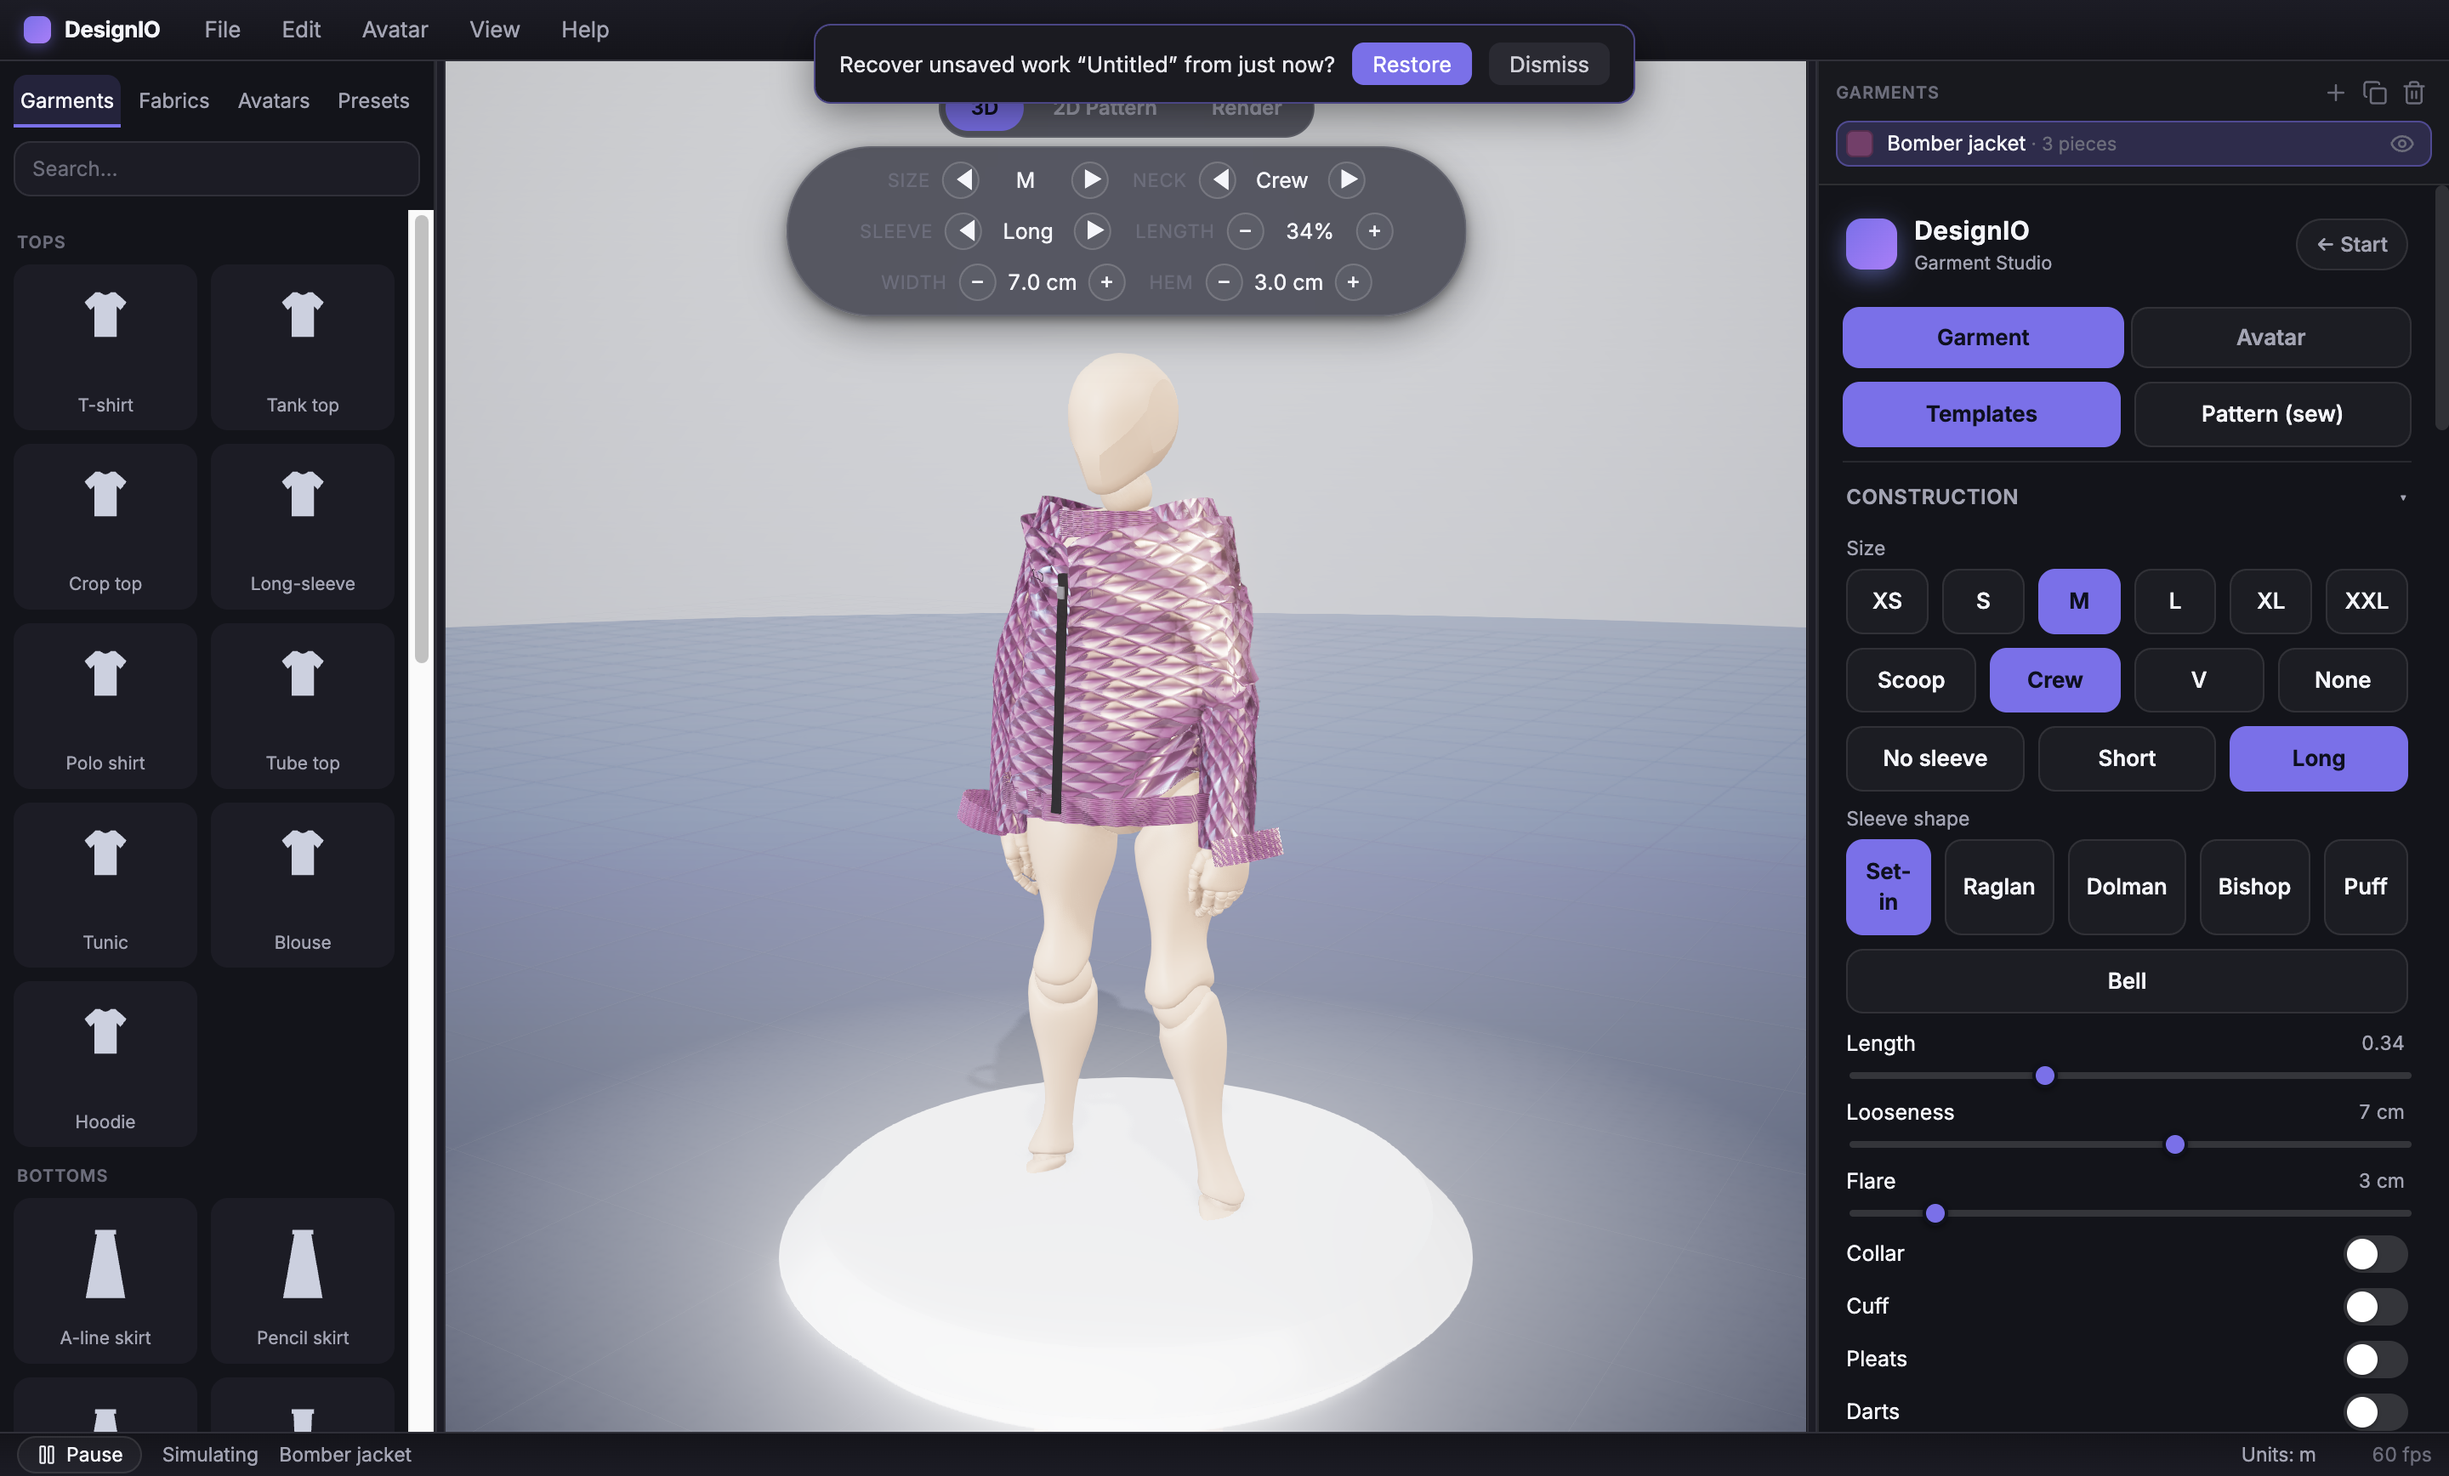
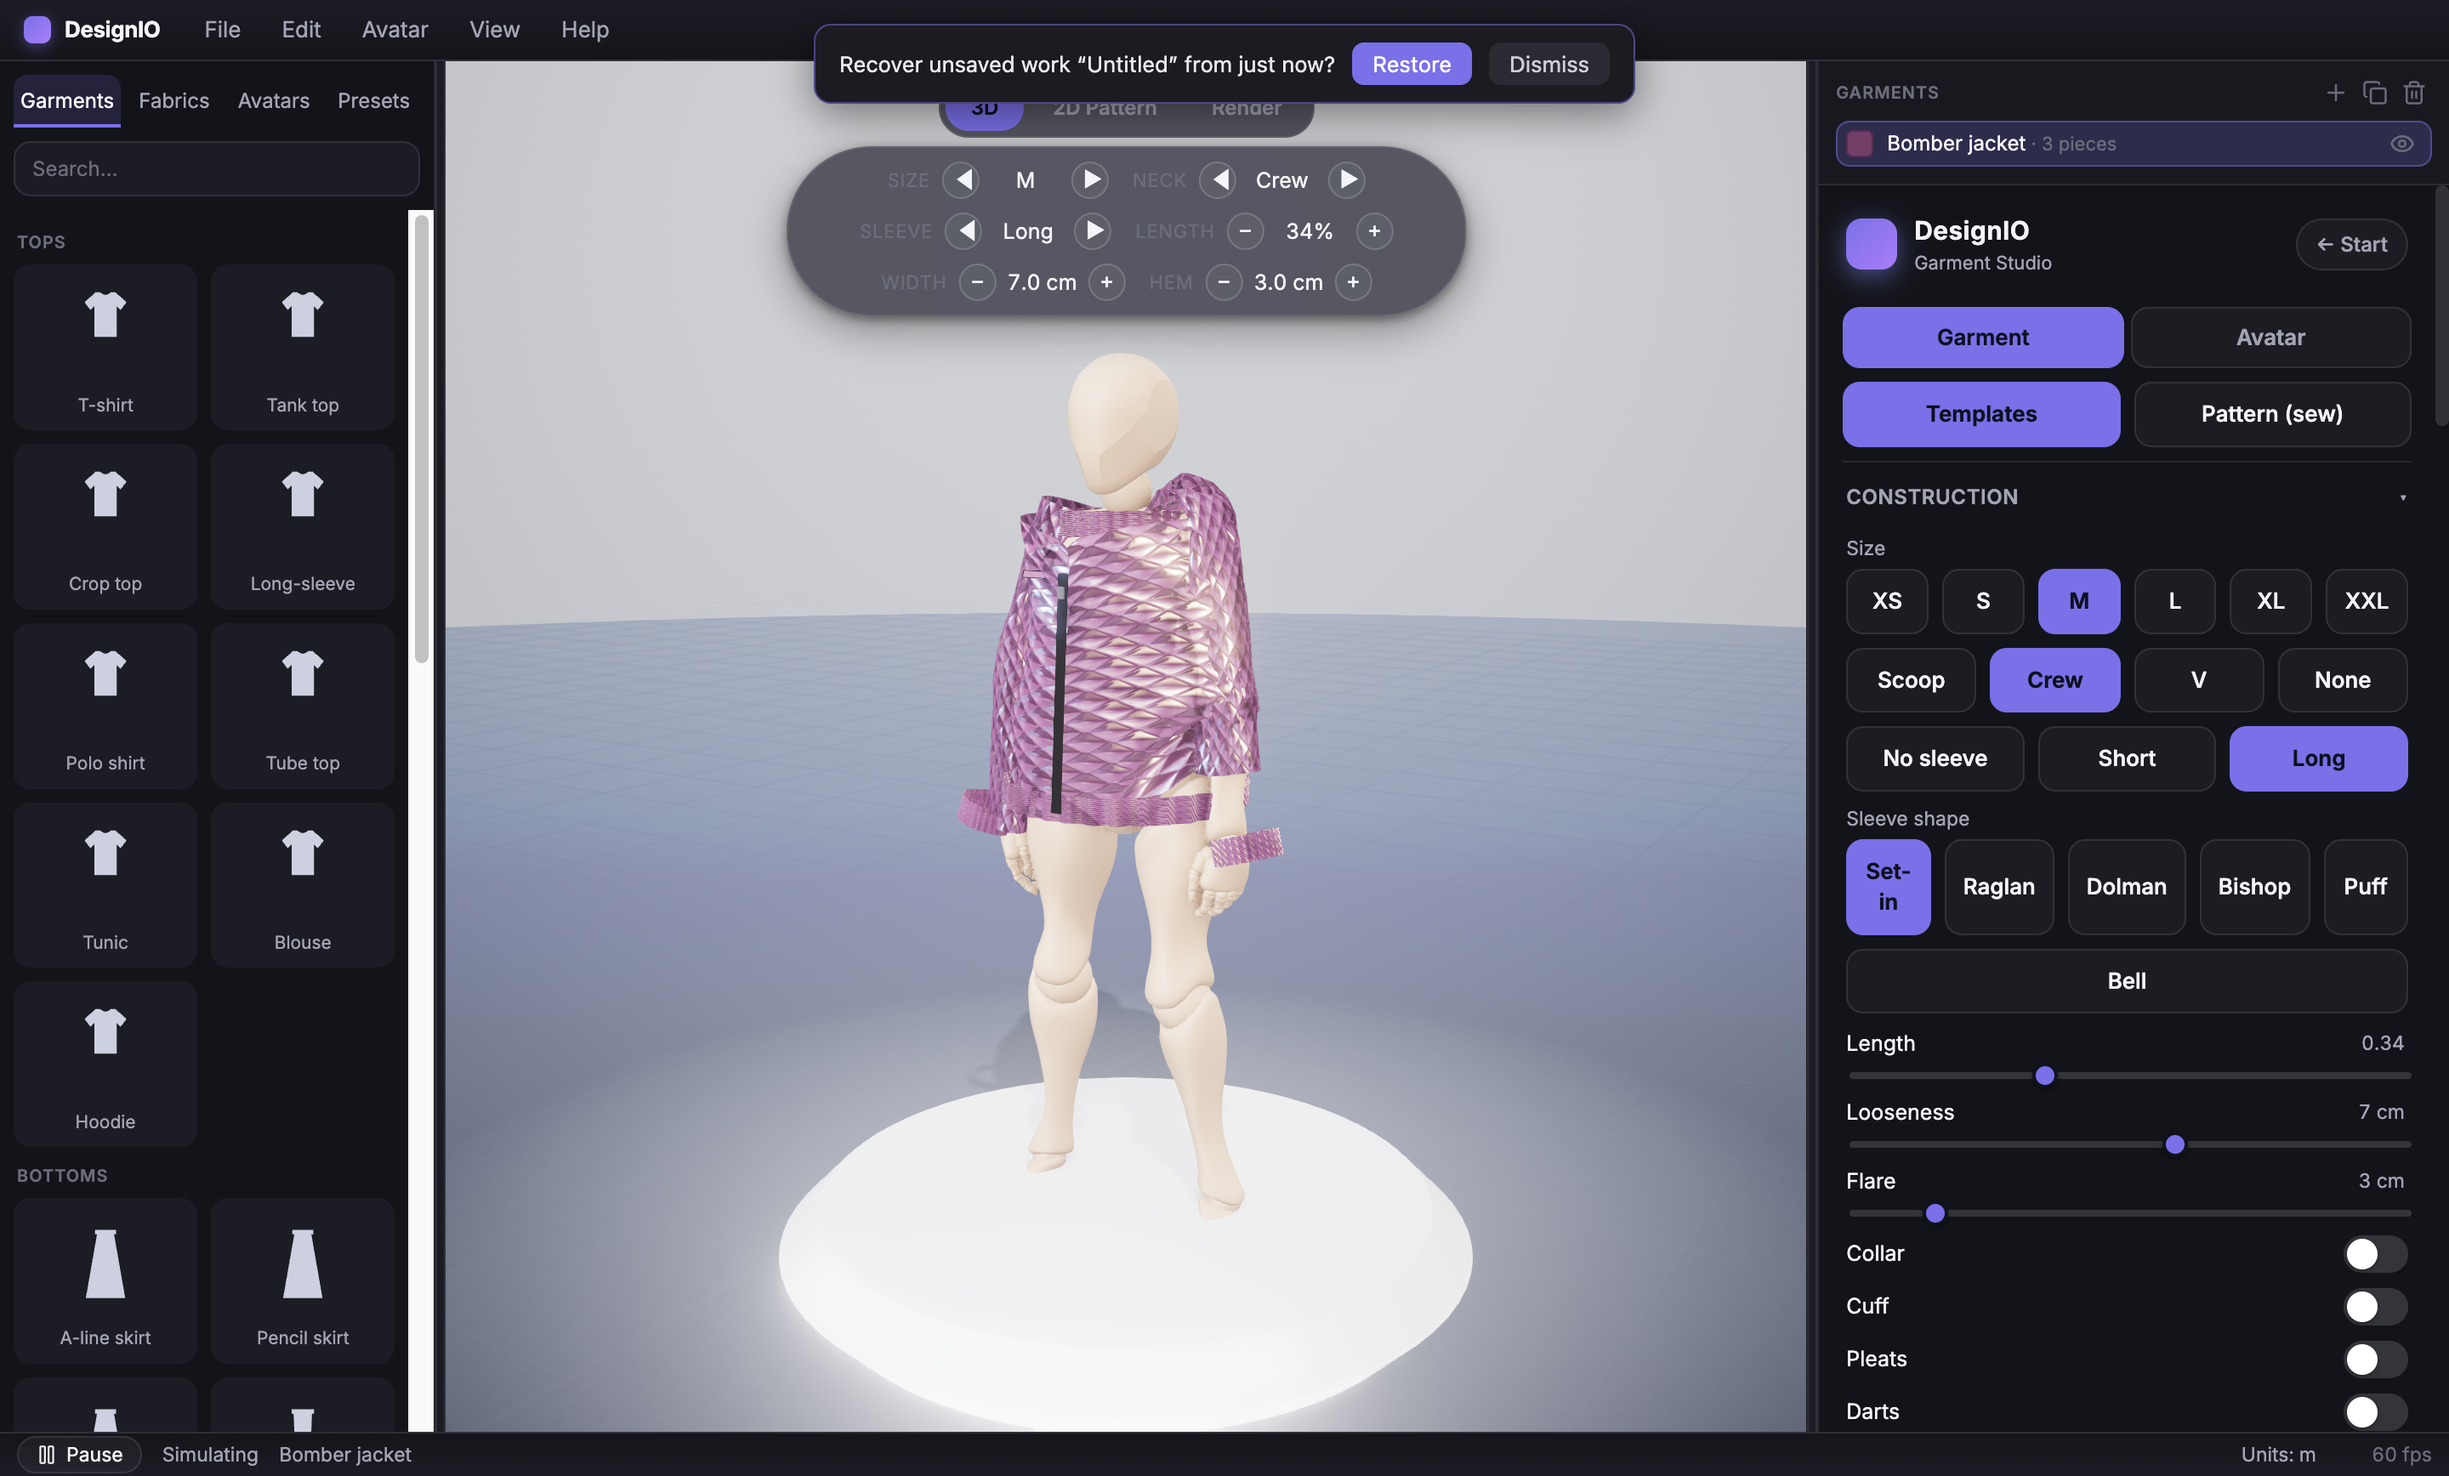
README: document the new features (puffer loft · wet look · tone-map · surface realism)
Screenshot pass confirmed the new panel controls render correctly (Wet look + Puffer
loft toggles in Appearance; the ACES/AgX/Neutral/Filmic/Reinhard Tone-map picker in
the Environment section). Now reflect this session's features in the README.

- At a glance: add trapped-air puffer loft (Simulation) + wet look (Surface).
- Surface finishes: a Wet-look column (+ docs/wet.png), the iridescent oil-slick swirl,
  and a note on the PBR surface realism (weave roughness + sheen + anisotropy).
- Real 3D cloth simulation: trapped-air puffer loft (+ docs/puffer.png) + inelastic
  contact settle.
- Studio lighting & backdrops: selectable tone-mapping + dithered backdrop gradient.
- Roadmap "Shipped": puffer loft · wet-look · PBR surface realism · tone-mapping.

New/updated doc shots: docs/puffer.png (lofted quilted coat), docs/wet.png (wet
dress), docs/quilt.png regenerated (the quilted bomber now lofts). Added puffer + wet
to scripts/capture-readme.cjs so future regens include them.

Docs-only — no source changes.

Changed region(s): [[0.4062, 0.3111, 0.5312, 0.591]]

diff --git a/README.md b/README.md
@@ -76,8 +76,8 @@ If you are unsure whether something is allowed, **ask first.**
 | **Garments** | 31 data-driven garments across tops · bottoms · dresses · one-pieces · outerwear · headwear |
 | **Fabrics** | 24 real fabrics with physical **and** visual properties that drive both drape and look |
 | **Body** | imported photoreal GLB avatar (default) or a sculpted metaball body — female/male, fully shapeable |
-| **Simulation** | XPBD cloth · mesh-accurate BVH body collision · cloth self/inter-collision · 4D per-fabric motion |
-| **Surface** | textiles · ombré · distressing · sequins · iridescence · quilting · lace · faux-fur · photo→PBR swatch |
+| **Simulation** | XPBD cloth · mesh-accurate BVH body collision · cloth self/inter-collision · 4D motion · trapped-air puffer loft |
+| **Surface** | textiles · ombré · distressing · sequins · iridescence · quilting · lace · faux-fur · wet look · photo→PBR swatch |
 | **Customize** | skin tones · hair · face · body presets · lookbook poses · accessories · headwear & neckwear |
 | **Studio** | dockable CAD shell · 3D + 2D pattern + Render tabs · lighting & backdrop presets · fit heatmaps |
 | **Output** | glTF · OBJ · USDZ (AR) · SVG/DXF pattern · tech-pack · manufacturing pack · PNG stills · WebM clips |
@@ -238,13 +238,20 @@ they simulate and export with it:
 | ![A sequined eveningwear gown](docs/sequins.png) | ![An oil-slick iridescent dress](docs/iridescent.png) | ![A see-through chantilly lace dress](docs/lace.png) |
 | glittering eveningwear finishes | colour-shifting thin-film | chantilly · geometric · fishnet (real see-through cutout) |
 
-| Quilting | Faux-fur / shearling / fleece |
-| --- | --- |
-| ![A diamond-quilted bomber](docs/quilt.png) | ![A shearling fur coat with a fuzzy pile](docs/fur.png) |
-| channel · diamond · box pillow-loft | directional fuzzy pile, no extra geometry |
+| Quilting | Faux-fur / shearling / fleece | Wet look |
+| --- | --- | --- |
+| ![A diamond-quilted bomber](docs/quilt.png) | ![A shearling fur coat with a fuzzy pile](docs/fur.png) | ![A waterlogged wet-look dress](docs/wet.png) |
+| channel · diamond · box pillow-loft | directional fuzzy pile, no extra geometry | waterlogged: darker + glossy, clings limp |
+
+The **iridescent** finish flows a real oil-on-water swirl across the surface (a procedural thin-film
+thickness map), not a flat colour shift. The **Wet look** toggle (in the Appearance panel) makes the fabric
+heavier + limp + clinging *and* darker + glossy — a rain / swim / beach preview.
 
 You can also **import a fabric photo** and DesignIO bakes it into a **seamless tiling PBR material** (albedo
-+ derived normal + roughness) that clothes the whole garment.
++ derived normal + roughness) that clothes the whole garment. Every fabric renders with a **procedural
+weave** (a paired normal **and** roughness map so yarn crowns catch the light and valleys stay matte),
+per-family **cloth sheen**, and a warp-aligned **anisotropic** highlight — so satins streak and wovens read
+matte, not plastic.
 
 ---
 
@@ -335,8 +342,15 @@ than interpenetrating.
 
 Under the hood: **adaptive remeshing** packs solver rings where the silhouette bends (waist cinch, flare
 onset, puff-sleeve bell) at no extra particle cost; per-fabric **aerodynamic drag** gives real secondary
-motion; and both solvers **sleep** to a dead stop when there's no wind and the body is still — so at default
-settings a garment hangs **perfectly still**, no drift or jitter, and any wind / body-move / edit wakes it.
+motion; contact is **inelastic**, so cloth settles onto the body instead of springing off; and both solvers
+**sleep** to a dead stop when there's no wind and the body is still — so at default settings a garment hangs
+**perfectly still**, no drift or jitter, and any wind / body-move / edit wakes it.
+
+**Trapped-air loft** turns a garment into a real **puffer** — a quilted coat (or any garment with the
+**Puffer loft** toggle) inflates off the body with an outward pressure that the stretch constraints cap, so
+it stands proud instead of hanging flat.
+
+![A quilted canvas coat lofted into a puffer](docs/puffer.png)
 
 ---
 
@@ -381,7 +395,10 @@ close. **Colorways** save appearance-only colour/fabric variants of one design.
 Light the shot like a photographer. Pick a **studio lighting preset** — **Studio · Softbox · Dramatic ·
 High-key · Runway · Golden-hour** (each an azimuth/elevation-described key + rims + hemi + exposure) — and a
 **backdrop**: Studio grey · White · Product-white (flat, no floor) · Charcoal · Black (floating shot) ·
-Blush · Sky cyclorama, or **Transparent** (the Render tab then exports a PNG **with alpha**).
+Blush · Sky cyclorama, or **Transparent** (the Render tab then exports a PNG **with alpha**). Every backdrop
+gradient is dithered so it never bands behind the figure. Pick the **tone-mapping** operator too — **ACES ·
+AgX · Neutral · Filmic · Reinhard** — to roll bright highlights (white satin, sequins, bloom) off with more
+or less saturation.
 
 | Dramatic lighting | Runway lighting | Blush backdrop |
 | --- | --- | --- |
@@ -565,7 +582,10 @@ drape-following **topstitch** · **surface finishes** (textiles · ombré · dis
 **GLB avatar as the default body** · female/male shaping + **body presets** · **skin tones · hair · face ·
 lookbook poses** · **accessories, headwear & neckwear** · mesh-accurate **BVH body collision** + **cloth
 self/inter-collision** · **body-pinned garments** — the avatar **walks in place with its clothes on** ·
-**4D per-fabric secondary motion** · **lighting & backdrop presets** · **fit heatmap / stress / wrinkles** ·
+**4D per-fabric secondary motion** · **trapped-air puffer loft** · **wet-look finish** · **PBR surface
+realism** (procedural weave roughness + per-family sheen + warp-aligned anisotropy + angle-weighted normals)
+· **lighting & backdrop presets** + **selectable tone-mapping** (ACES/AgX/Neutral/Filmic/Reinhard) · **fit
+heatmap / stress / wrinkles** ·
 **measure & annotate** · **timeline shot-sequencer · turntable · runway line-up** · **adaptive rendering** ·
 autosave + crash recovery · glTF/OBJ/**USDZ**/SVG/DXF/tech-pack/manufacturing-pack export · a
 production-grade, consistent UI.
